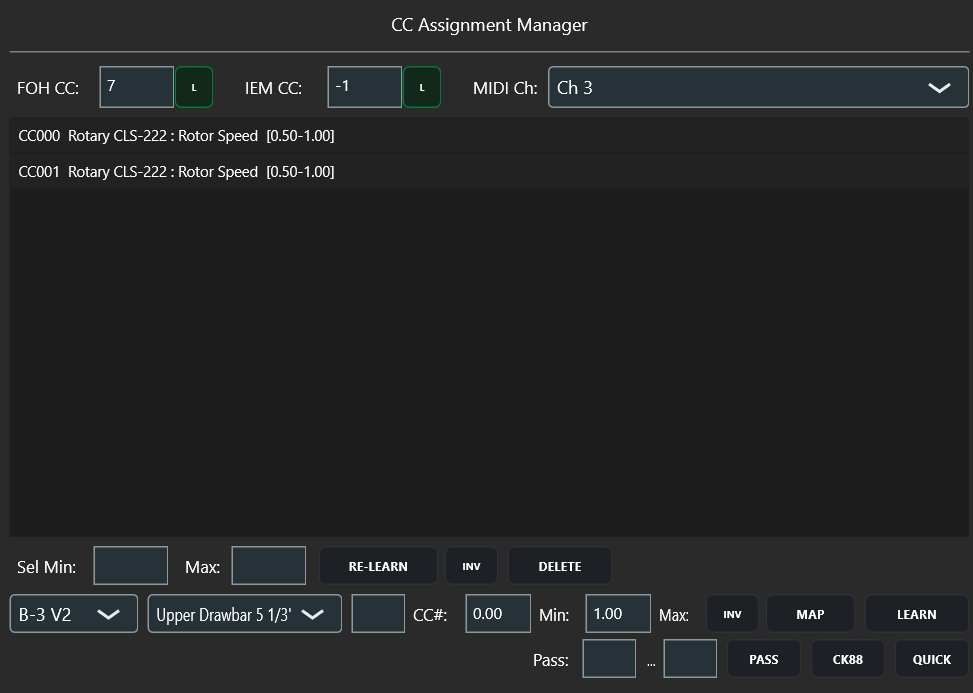
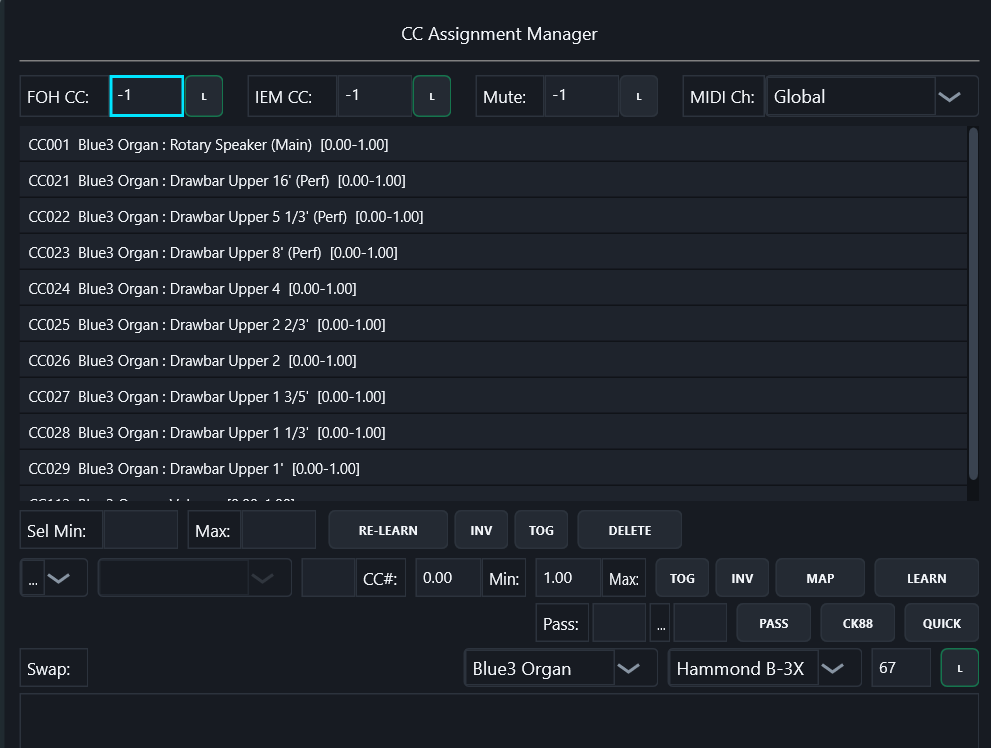
Site: fresh screenshots (CC manager with TOG/Mute/Swap, channel strip DSP) + new Break-Music DJ Player showcase tab

diff --git a/docs/index.html b/docs/index.html
@@ -728,6 +728,7 @@
         <button class="tab-btn" onclick="switchTab(3)">8-Pad Sampler & Waveform</button>
         <button class="tab-btn" onclick="switchTab(4)">Active VST Editors</button>
         <button class="tab-btn" onclick="switchTab(5)">CC Manager — Learn · Toggle · Swap</button>
+        <button class="tab-btn" onclick="switchTab(6)">Break-Music DJ Player</button>
       </div>
 
       <div class="showcase-viewport">
@@ -737,6 +738,7 @@
         <img src="sampler_splice_editor.png" class="showcase-img" alt="8-Pad Sampler & Waveform Splice Handle Editor" />
         <img src="active_vst_windows.png" class="showcase-img" alt="OpenRig Active VST Editors" />
         <img src="cc_assignment_manager.png" class="showcase-img" alt="CC Assignment Manager Screen" />
+        <img src="break_music_player.png" class="showcase-img" alt="Dual-Deck Break-Music Player with YouTube Download" />
       </div>
 
       <div class="showcase-caption">
@@ -1009,7 +1011,8 @@
     "MIDI FX module with Transposer, Arpeggiator pattern generator, and Octaver Harmonizer.",
     "8 One-Shot Pad Sampler with drag-and-drop WAV support and sample-accurate waveform splice handles.",
     "Active VST3 floating editor windows showing synth & sampler controls.",
-    "Arm-then-wiggle CC Assignment Manager, now with latch/toggle mode, per-strip mute toggles, long-press learn, and A/B instrument swapping."
+    "Arm-then-wiggle CC Assignment Manager, now with latch/toggle mode, per-strip mute toggles, long-press learn, and A/B instrument swapping.",
+    "Dual-deck break-music player: YouTube grab (MP3 192k), BPM display, smart arranging, and per-deck gain — between-set music without leaving the rig."
   ];
 
   function switchTab(index) {
